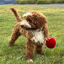
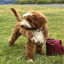
added better images

Changed region(s): [[0.7188, 0.5938, 1.0, 0.875]]

diff --git a/5/index.html b/5/index.html
@@ -646,15 +646,15 @@
             </div>
             <div class="progress-row">
                 <div class="description">Puppy with toy</div>
-                <img class="image" src="im1/p172/3o.png" alt="Image 1">
+                <img class="image" src="im1/p172/4o.png" alt="Image 1">
             </div>
         </div> 
         <p>
             The results look nice and interesting.
-            For my dog image, I was just curious on what toy or object it would generate.
-            For the first image, it appears that the model is trying to generate some ball.
-            For the second image, maybe because of the hard wood floor, the model might be generating a shoe or a toy.
             For the Campanile, the model gave the bell tower an interesting new top.
+            For my dog image, I was just curious on what toy or object it would generate.
+            For the first image, it appears that the model is trying to generate some bag, as the dog is on a lawn.
+            For the second image, maybe because of the hard wood floor, the model might be generating some sort of chew toy for the dog.
         </p>
     </div>
 
